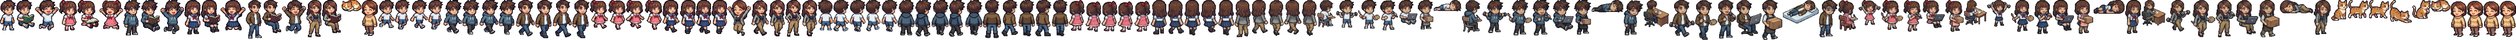
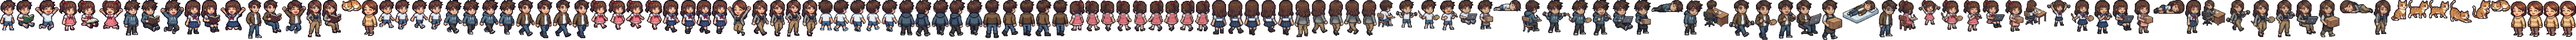
v0.5.10: 딸 유년기 뒷모습 손그림 8프레임 걷기 적용
- 별도 시트 8프레임 사이클, 흰 테두리 번짐 제거
- 걷기 프레임 수 자동 감지 (4/8장)

Claude-Session: https://claude.ai/code/session_01VYXQzVYR4chXqJ2j5munDD

diff --git a/src/render/spriteCharacter.ts b/src/render/spriteCharacter.ts
@@ -166,9 +166,17 @@ export function spriteUrl(name: string): string {
 
 /** 걷기 프레임 이름 (없으면 null). 130ms마다 다음 프레임 */
 export const WALK_FRAME_MS = 130;
+const walkCount = new Map<string, number>();
 export function walkFrame(base: string, t: number): string | null {
-  const name = `${base}_walk${Math.floor(t / WALK_FRAME_MS) % 4}`;
-  return FRAMES[name] ? name : null;
+  // 걷기 프레임 수(4장 또는 8장)를 세어 순서대로 재생
+  let n = walkCount.get(base);
+  if (n === undefined) {
+    n = 0;
+    while (FRAMES[`${base}_walk${n}`]) n++;
+    walkCount.set(base, n);
+  }
+  if (!n) return null;
+  return `${base}_walk${Math.floor(t / (n > 4 ? WALK_FRAME_MS * 0.6 : WALK_FRAME_MS)) % n}`;
 }
 
 export const PARENT_FRAME = 'PARENT_stand';

diff --git a/src/components/TitleScreen.tsx b/src/components/TitleScreen.tsx
@@ -59,7 +59,7 @@ export function TitleScreen({ onStart }: { onStart: () => void }) {
           <PixelButton color="bg-sky" onClick={() => setMode('book')}>
             👑 엔딩 도감 ({unlockedEndings.length}/{ENDINGS.length})
           </PixelButton>
-          <p className="mt-2 text-[10px] text-white/60">v0.5.9 · 반려묘</p>
+          <p className="mt-2 text-[10px] text-white/60">v0.5.10 · 딸 유년기 뒷모습 손그림</p>
         </div>
       )}
 

diff --git a/scripts/build-sprites.py b/scripts/build-sprites.py
@@ -150,6 +150,20 @@ def cut(img, box, block=BLOCK):
     return out[ys.min() : ys.max() + 1, xs.min() : xs.max() + 1]
 
 
+def defringe(rgba, passes=2):
+    """압축된 작은 이미지의 흰 배경 번짐 제거: 투명 영역에 닿은 밝은 회백색 테두리 픽셀을 지운다"""
+    for _ in range(passes):
+        a = rgba[..., 3] > 0
+        rgb = rgba[..., :3].astype(int)
+        pale = (rgb.min(axis=2) > 175) & (rgb.max(axis=2) - rgb.min(axis=2) < 45)
+        edge = np.zeros_like(a)
+        pad = np.pad(~a, 1, constant_values=True)
+        for dy, dx in ((0, 1), (2, 1), (1, 0), (1, 2)):
+            edge |= pad[dy : dy + a.shape[0], dx : dx + a.shape[1]]
+        rgba[a & pale & edge] = 0
+    return rgba
+
+
 def fit_cut(img, box, target_h):
     """잘라낸 그림의 실제 키가 target_h 가 되도록 축소 비율을 두 번에 걸쳐 맞춘다
     (검출 상자에는 여백이 섞여 있어 상자 높이로만 계산하면 작아짐)"""
@@ -287,7 +301,9 @@ for g, path in WALK_SHEETS.items():
 # 발 간격이 넓고 뒤쪽 발 방향이 서로 반대인 두 장 = 왼발/오른발 보폭 → [보폭A, 교차, 보폭B, 교차]
 # 키는 앞모습 서기 키에 맞춘다.
 # 원본 걷기 그림이 이상한 줄 (딸 유년기: 왼쪽 위를 향해 그려졌고 발이 뜨는 등 다리 모양이 어색함)
-BACK_SYNTH = {'CHILD_DAUGHTER'}
+BACK_SYNTH: set = set()
+# 따로 받은 뒷모습 걷기 시트 (2행 × 4열, 8프레임 사이클)
+BACK_CUSTOM = {'CHILD_DAUGHTER': 'assets-src/daughter-child-back-walk.png'}
 BACK_SHEETS = {
     'SON': 'assets-src/son-back-sheet.png',
     'DAUGHTER': 'assets-src/daughter-back-sheet.png',
@@ -315,6 +331,19 @@ for g, path in BACK_SHEETS.items():
     for r, st in enumerate(STAGES):
         row = bboxes[r * 6:(r + 1) * 6]
         stand_box, walks = row[0], row[1:]
+        if f'{st}_{g}' in BACK_CUSTOM:
+            # 따로 받은 손그림 뒷모습 걷기 시트 (행→열 순서 = 걷기 순서)
+            target_h = sprites[f'{st}_{g}_stand'].shape[0]
+            sprites[f'{st}_{g}_back_stand'], _ = fit_cut(img_b, stand_box, target_h)
+            cimg = np.asarray(Image.open(BACK_CUSTOM[f'{st}_{g}']).convert('RGB')).astype(np.int32)
+            cb = components((765 - cimg.sum(axis=2)) > 60, f=2, min_cells=40)
+            row_h = cimg.shape[0] / 2
+            cb.sort(key=lambda b: (int(((b[1] + b[3]) / 2) // row_h), b[0]))
+            _, cblk = fit_cut(cimg, cb[0], target_h)
+            for i, b in enumerate(cb):
+                sprites[f'{st}_{g}_back_walk{i}'] = defringe(cut(cimg, b, cblk))
+            print(f'  {g} {st} 뒷모습 걷기: 손그림 {len(cb)}프레임')
+            continue
         if f'{st}_{g}' in BACK_SYNTH:
             # 원본 걷기 그림이 이상한 줄: 똑바로 등을 보인 '뒤 서기'에서 걷기 4프레임을 직접 생성
             target_h = sprites[f'{st}_{g}_stand'].shape[0]

diff --git a/CHANGELOG.md b/CHANGELOG.md
@@ -1,5 +1,13 @@
 # Changelog
 
+## v0.5.10 — 딸 유년기 뒷모습 손그림 걷기
+
+### 변경
+- `assets-src/daughter-child-back-walk.png`: 따로 받은 딸 유년기 뒷모습 걷기 8프레임 (2행 × 4열)
+  - 기존 자동 생성 걷기를 대체 (`BACK_CUSTOM`), 행→열 순서로 8프레임 사이클
+  - 앞모습 서기 키(67px)에 맞춰 크기 보정, 압축 이미지의 흰 테두리 번짐 제거(`defringe`)
+- 걷기 재생이 4장/8장 프레임 수를 자동으로 세어 재생 (8장은 프레임 간격을 짧게 해 걸음 속도 유지)
+
 ## v0.5.9 — 돌아다니는 반려묘
 
 ### 추가
